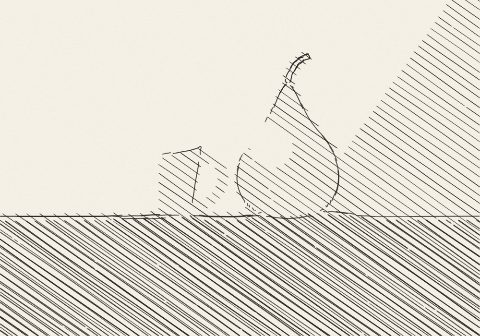
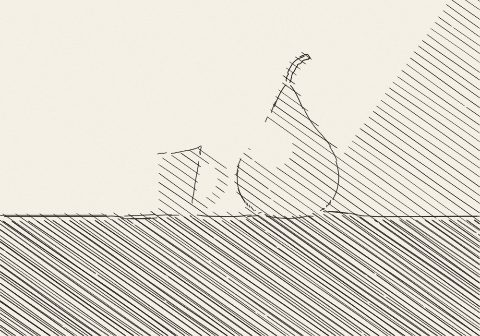
펜화 선 간격·원근 굵기, 방향 지시선 구역별 직선, 팔레트 실효, 7층 원본 겹치기
펜화(명암 단계 해칭):
- 어두운 단계일수록 간격을 더 좁게 (S0·(1−0.4t) → S0·(1−0.66t), 가장 어두운 단계가 첫 단계의 1/3)
- 방향 지시선이 이제 먹는다. 선을 휘게 하니 한쪽으로 몰려 구멍이 생겨서, 지시선이 센 자리를 각도 12칸으로
  나눠 칸마다 그 각도의 곧은 평행선을 따로 긋는 방식으로 (drawSet 하나로 기준 각도·지시 구역을 모두 처리)
- 선 방향·형태 따라가기 슬라이더를 패널 기본 화면으로 (펜 계열). 리천 붓은 형태 따라가기가 높아 각도가
  안 먹는 것처럼 보였으므로 안내 문구를 붙였다

원근 선 굵기 (depth, 펜 붓): 가까우면 슬라이더 굵기(≈0.4~0.6mm), 멀면 최대 0.22배(≈0.05~0.2mm).
nearMap 이 화면 아래(0.4)와 지역 대비(0.6, 공기 원근)로 추정한다. 모든 자국에 자리마다 적용.
선 굵기 슬라이더에 mm 표시 추가 (긴 변 1000px = A4 가로 297mm 기준)

팔레트가 거의 안 보이던 것 수정: 채도 문턱 chroma·3.2 → ·6, 사실성 감쇠 0.65 → 0.35.
이제 12색·혼합·선명·단색이 눈에 띄게 다르다

7층 원본 겹치기 (그림붓): 사실 쪽일수록 원본 사진이 진하게 비친다 (사실 50 부터, 100 에서 절반).
살짝 뭉갠 사진을 알파 합성하므로 붓 자국은 남는다

Claude-Session: https://claude.ai/code/session_01Hvnc9GgokccTnGmXxLxTkb

diff --git a/src/render.ts b/src/render.ts
@@ -270,6 +270,35 @@ function smoothNoise1D(n: number, rng: () => number): Float32Array {
   return a;
 }
 
+/**
+ * 원근(가까움) 0..1 — 1 = 가깝다. 사진에는 깊이 정보가 없으므로 두 가지 단서를 섞는다:
+ * (1) 화면 아래일수록 가깝다 (풍경·거리 사진의 기본 구도), (2) 지역 대비가 클수록 가깝다 —
+ * 먼 곳은 대기 때문에 흐려진다(공기 원근). 이걸로 선 굵기를 바꾼다: 가까우면 굵고 멀면 가늘게.
+ */
+function nearMap(lum: Float32Array, w: number, h: number, minSide: number): Float32Array {
+  const N = w * h;
+  const R = Math.max(3, Math.round(minSide / 45));
+  const soft = boxBlur(lum, w, h, R);
+  const dev = new Float32Array(N);
+  for (let i = 0; i < N; i++) dev[i] = Math.abs(lum[i] - soft[i]);
+  const con = boxBlur(dev, w, h, R * 2);
+  // 90퍼센타일로 정규화 (한 곳만 아주 또렷해도 전체가 눌리지 않게)
+  const step = Math.max(1, Math.floor(N / 20000));
+  const sample: number[] = [];
+  for (let i = 0; i < N; i += step) sample.push(con[i]);
+  sample.sort((a, b) => a - b);
+  const hi = Math.max(1e-4, sample[Math.floor(sample.length * 0.9)]);
+  const out = new Float32Array(N);
+  for (let y = 0; y < h; y++) {
+    const yt = h > 1 ? y / (h - 1) : 1; // 아래 = 1
+    for (let x = 0; x < w; x++) {
+      const i = y * w + x;
+      out[i] = clamp(0.4 * yt + 0.6 * clamp(con[i] / hi, 0, 1), 0, 1);
+    }
+  }
+  return boxBlur(out, w, h, R);
+}
+
 /* ---------- 색 팔레트 ---------- */
 
 const PALETTE_RGB: RGB[] = PALETTE_12.map((h) => hexToRgb(h));
@@ -293,7 +322,7 @@ function applyPalette(r: number, g: number, b: number, pal: PaletteId, ink: RGB)
   }
   // match / match2: 색도(밝기를 뺀 색)가 가장 가까운 물감색
   const chroma = Math.max(Math.abs(r - mean), Math.abs(g - mean), Math.abs(b - mean));
-  const strength = clamp(chroma * 3.2, 0, 1) * (pal === 'match' ? 1 : 0.55);
+  const strength = clamp(chroma * 6, 0, 1) * (pal === 'match' ? 1 : 0.6);
   if (strength < 0.02) return [r, g, b];
   const sum = r + g + b + 0.03;
   const cr = r / sum, cg = g / sum;
@@ -532,6 +561,8 @@ interface Ctx {
   bg: Float32Array | null;
   /** 마른 붓 0 ↔ 젖은 붓 1 */
   wet: number;
+  /** 자리 i 의 선 굵기 배수 (원근): 가까우면 1, 멀면 0.22 까지 */
+  wMul: (i: number) => number;
 }
 
 /**
@@ -585,7 +616,7 @@ function penStroke(c: Ctx, ref: Float32Array, x0: number, y0: number, L: number,
       if (cv.dark[i] > ref[i] + 0.08) { if (++over > 4) break; } else over = 0;
       const taper = Math.min(1, (s + step) / 4, (half - s) / 4 + 0.35);
       const wob = Math.sin(s * wobF + wobP) * wobA;
-      cv.dot(x - dy * wob, y + dx * wob, r * (0.65 + 0.35 * taper) * pressure, 0.75 + 0.25 * taper);
+      cv.dot(x - dy * wob, y + dx * wob, r * (0.65 + 0.35 * taper) * pressure * c.wMul(i), 0.75 + 0.25 * taper);
       // 방향장을 조금씩 따라감 (부호는 이전 방향과 맞춤)
       const wf = Math.max(c.ff * c.field.coh[i], c.field.man[i]);
       if (wf > 0.12 && c.texture[i] < 0.5) {
@@ -620,7 +651,7 @@ function loopStroke(c: Ctx, ref: Float32Array, x0: number, y0: number, R: number
     if (x < 0 || y < 0 || x >= w || y >= h) continue;
     const i = y * w + x;
     if (ref[i] < 0.02) continue;
-    cv.dot(px, py, lw * 0.45, 0.9);
+    cv.dot(px, py, lw * 0.45 * c.wMul(i), 0.9);
   }
   cv.end(alphaFor(c, D0) * 0.6, c.colorAt(i0));
 }
@@ -678,7 +709,7 @@ function edgePass(c: Ctx, mag: Float32Array, mass: { mag: Float32Array; gx: Floa
         if (done[i] && done[i] !== sid) { if (++dup > 4) break; }
         mark(xi, yi);
         const k = clamp(m / th, 0.5, 1.6);
-        cv.dot(x, y, r * (0.6 + 0.4 * Math.min(1, k)), 0.6 + 0.4 * Math.min(1, k));
+        cv.dot(x, y, r * (0.6 + 0.4 * Math.min(1, k)) * c.wMul(i), 0.6 + 0.4 * Math.min(1, k));
         drawn++;
         // 경계 접선을 따라감 (부호 유지)
         let [fx, fy] = tangent(i);
@@ -747,7 +778,7 @@ function sweep(c: Ctx, ref: Float32Array, R: number, sw: Sweep, T: number, L: nu
         const px = xs + rng() * (x1 - xs), py = ys + rng() * (y1 - ys);
         const i = (py | 0) * w + (px | 0);
         if (ref[i] < 0.02 || cv.dark[i] > ref[i]) continue;
-        cv.dot(px, py, (lw / 2) * (0.7 + rng() * 0.6), 0.95);
+        cv.dot(px, py, (lw / 2) * (0.7 + rng() * 0.6) * c.wMul(i), 0.95);
         cv.end(clamp(alphaFor(c, ref[i]) * 1.1, 0, 0.97), c.colorAt(i));
       }
       continue;
@@ -786,7 +817,22 @@ function toneHatch(c: Ctx, lum: Float32Array, white: number, bg: Float32Array | 
     tone[i] = clamp(Math.round(((white - L) / white) * (levels - 1) + 0.35), 1, levels - 1);
   }
 
-  // 2) 층마다 선 간격·굵기·각도. 어두운 층일수록 촘촘하고 굵으며, 셋째 층부터 각도를 튼다
+  // 2) 방향 지시선: 선을 휘게 하면 한쪽으로 몰려 구멍이 생긴다. 대신 지시선이 센 구역을 각도별로 나눠
+  //    **구역마다 곧은 평행선**을 따로 긋는다 (사람이 벽은 세로, 바닥은 원근 방향으로 나눠 긋는 것과 같다).
+  const BINS = 12; // 15도 간격
+  const bin = new Int8Array(N).fill(-1);
+  const bins = new Set<number>();
+  if (c.field.man) {
+    for (let i = 0; i < N; i++) {
+      if (c.field.man[i] < 0.3 || !tone[i]) continue;
+      let a = Math.atan2(c.field.ty[i], c.field.tx[i]);
+      a = ((a % Math.PI) + Math.PI) % Math.PI;
+      const bi = Math.min(BINS - 1, Math.floor((a / Math.PI) * BINS));
+      bin[i] = bi; bins.add(bi);
+    }
+  }
+
+  // 3) 층마다 선 간격·굵기·각도. 어두운 층일수록 촘촘하고 굵으며, 셋째 층부터 각도를 튼다
   const sets = levels - 1;
   const spread = Math.max(1, sets - 1);
   const S0 = Math.max(lw * 2.2, minSide * (0.032 - 0.021 * clamp(p.detail, 0, 100) / 100));
@@ -794,26 +840,21 @@ function toneHatch(c: Ctx, lum: Float32Array, white: number, bg: Float32Array | 
   const alphaBase = 0.42 + 0.5 * clamp(p.ink, 0, 100) / 100;
   const j = c.rnd;
 
-  for (let k = 1; k <= sets; k++) {
-    const t = (k - 1) / spread;
-    const spacing = S0 * (1 - 0.4 * t);
-    const width = lw * (0.75 + 0.85 * t);
-    const angle = c.p.baseAngle + (ANGLE_OFF[Math.min(k - 1, ANGLE_OFF.length - 1)] ?? 0);
-    const th = (angle * Math.PI) / 180;
+  /** 곧은 평행선 한 벌. keep(i) 가 참인 자리에만 자국을 남긴다 */
+  const drawSet = (angleDeg: number, spacing: number, width: number, phase: number, keep: (i: number) => boolean,
+    onFrac?: (f: number) => void) => {
+    const th = (angleDeg * Math.PI) / 180;
     const dx = Math.cos(th), dy = Math.sin(th);
     const nx = -dy, ny = dx;
     const cx = w / 2, cy = h / 2;
     const diag = Math.hypot(w, h);
     const r = width / 2;
-    const phase = k === 2 ? 0.5 : rng(); // 2층은 1층 사이에 끼워 넣어 선 갯수를 두 배로
     let done = 0;
     const total = Math.max(1, Math.ceil(diag / spacing));
-
     for (let o = -diag / 2 + phase * spacing; o <= diag / 2; o += spacing) {
-      if (onLevel && (done & 15) === 0) onLevel(k - 1, done / total);
+      if (onFrac && (done & 15) === 0) onFrac(done / total);
       done++;
       const bx = cx + nx * o, by = cy + ny * o;
-      // 손으로 그은 선: 완만한 흔들림과 필압 변화
       const wobA = (0.3 + 1.5 * j) * Math.max(1, lw * 0.7);
       const wobF = 0.006 + rng() * 0.012, wobP = rng() * 6.28;
       const pressure = 0.85 + rng() * 0.3;
@@ -823,7 +864,8 @@ function toneHatch(c: Ctx, lum: Float32Array, white: number, bg: Float32Array | 
           const n = seg.length / 2;
           for (let q = 0; q < n; q++) {
             const taper = Math.min(1, (q + 1) / 4, (n - q) / 4);
-            cv.dot(seg[q * 2], seg[q * 2 + 1], r * (0.55 + 0.45 * taper) * pressure, 0.8 + 0.2 * taper);
+            const di = (seg[q * 2 + 1] | 0) * w + (seg[q * 2] | 0);
+            cv.dot(seg[q * 2], seg[q * 2 + 1], r * (0.55 + 0.45 * taper) * pressure * c.wMul(di), 0.8 + 0.2 * taper);
           }
           cv.end(clamp(alphaBase * (0.85 + rng() * 0.3), 0, 0.97), c.colorAt((seg[1] | 0) * w + (seg[0] | 0)));
         } else cv.end(0, [0, 0, 0]); // 너무 짧으면 버린다 (모아 둔 자국도 지운다)
@@ -834,8 +876,7 @@ function toneHatch(c: Ctx, lum: Float32Array, white: number, bg: Float32Array | 
         const wob = Math.sin(u * wobF + wobP) * wobA;
         const px = bx + dx * u + nx * wob, py = by + dy * u + ny * wob;
         const xi = px | 0, yi = py | 0;
-        const inside = xi >= 0 && yi >= 0 && xi < w && yi < h && tone[yi * w + xi] >= k;
-        if (!inside) { if (seg.length) flush(); continue; }
+        if (xi < 0 || yi < 0 || xi >= w || yi >= h || !keep(yi * w + xi)) { if (seg.length) flush(); continue; }
         // 가끔 펜을 떼었다 놓는다 (손그림 느낌). 무작위성이 클수록 자주
         if (skip > 0) { skip -= 0.8; if (seg.length) flush(); continue; }
         if (j > 0.05 && rng() < 0.0015 * j) { skip = 2 + rng() * 6 * j; continue; }
@@ -843,7 +884,23 @@ function toneHatch(c: Ctx, lum: Float32Array, white: number, bg: Float32Array | 
       }
       if (seg.length) flush();
     }
-    if (onLevel) onLevel(k - 1, 1);
+  };
+
+  for (let k = 1; k <= sets; k++) {
+    const t = (k - 1) / spread;
+    // 어두운 단계일수록 간격을 좁게 (가장 어두운 단계는 첫 단계의 1/3). 선이 붙어 먹이 되지 않게 굵기의 1.5배는 띄운다
+    const spacing = Math.max(lw * 1.5, S0 * (1 - 0.66 * t));
+    const width = lw * (0.75 + 0.85 * t);
+    const off = ANGLE_OFF[Math.min(k - 1, ANGLE_OFF.length - 1)] ?? 0;
+    const phase = k === 2 ? 0.5 : rng();
+    // 지시선이 없는 곳: 기준 각도로
+    drawSet(p.baseAngle + off, spacing, width, phase, (i) => tone[i] >= k && bin[i] < 0, (f) => onLevel?.(k - 1, f));
+    // 지시선 구역: 그 구역의 방향으로 (구역마다 곧은 평행선)
+    for (const bi of bins) {
+      const ang = ((bi + 0.5) / BINS) * 180 + off;
+      drawSet(ang, spacing, width, phase, (i) => tone[i] >= k && bin[i] === bi);
+    }
+    onLevel?.(k - 1, 1);
   }
 }
 
@@ -963,7 +1020,7 @@ function washTarget(img: RawImage, lum: Float32Array, white: number, w: number, 
       // 팔레트: 사진 색을 고른 물감색 쪽으로 옮긴다
       // 사실 쪽에서는 팔레트 이동을 줄인다 (원본 색 그대로에 가깝게)
       const pr = applyPalette(tr, tg, tb, pal, ink);
-      const pk = 1 - 0.65 * real;
+      const pk = 1 - 0.35 * real;
       tr += (pr[0] - tr) * pk; tg += (pr[1] - tg) * pk; tb += (pr[2] - tb) * pk;
     } else {
       const g = L * 0.8 + 0.2;
@@ -1129,6 +1186,9 @@ export function renderDrawing(img: RawImage, opts: RenderOpts): RawImage {
       return [inkC[0] * ki + r * 255 * kc, inkC[1] * ki + g * 255 * kc, inkC[2] * ki + b * 255 * kc];
     };
   }
+  // 원근 선 굵기 (펜 붓만): 가까우면 슬라이더 굵기 그대로, 멀면 최대 0.22배까지 가늘게
+  const dk = 0.78 * clamp(p.depth ?? 0, 0, 100) / 100;
+  const nearField = !painty && dk > 0.02 ? nearMap(lum, w, h, minSide) : null;
   const acc = clamp(p.accuracy, 0, 100) / 100;
   const c: Ctx = {
     w, h, N, cv, field, texture, rng, p,
@@ -1141,6 +1201,7 @@ export function renderDrawing(img: RawImage, opts: RenderOpts): RawImage {
     painty: p.brush === 'wash' || p.brush === 'oil' || p.brush === 'impasto',
     bg: bgMask,
     wet: clamp(p.wet ?? 40, 0, 100) / 100,
+    wMul: nearField ? (i: number) => 1 - dk * (1 - nearField[i]) : () => 1,
   };
   const T = 0.03 + 0.28 * (1 - acc);
   const sizes = passSizes(p, minSide);
@@ -1204,7 +1265,7 @@ export function renderDrawing(img: RawImage, opts: RenderOpts): RawImage {
     const fineSteps = p.brush === 'impasto' ? (realD >= 70 ? 1 : 0) : realD >= 75 ? 2 : realD >= 45 ? 1 : 0;
     for (let f = 0; f < fineSteps; f++) {
       const dt = clamp(realD, 0, 100) / 100;
-      const Rf = Math.max(2.5, minSide * (0.015 - 0.010 * dt) * (fineSteps === 2 && f === 0 ? 1.7 : 1) * (p.brush === 'impasto' ? 1.6 : 1));
+      const Rf = Math.max(3.2, minSide * (0.015 - 0.010 * dt) * (fineSteps === 2 && f === 0 ? 1.7 : 1) * (p.brush === 'impasto' ? 1.6 : 1));
       stageLabel = fineSteps === 2 && f === 0 ? '세부 (작은 붓)' : '마무리 (가장 작은 붓)';
       washSweep(c, blurRGB(want0, w, h, f === 0 && fineSteps === 2 ? 1 : 0), Rf, Math.max(3, 8 * (1 - acc)),
         (fr: number) => report(passes - 1, (f + fr) / fineSteps), { alpha: 1, len: 0.45, tip: tipForStage(p, 2) });
@@ -1212,6 +1273,23 @@ export function renderDrawing(img: RawImage, opts: RenderOpts): RawImage {
     }
     // 물감이 마르며 가장자리에 고이는 안료: 캔버스 밝기의 경계를 조금 어둡게
     if (!oil) pigmentEdges(cv, 0.12 + 0.34 * c.wet, mulberry32(77));
+    // 7층: 원본 사진 겹치기. 표현↔사실 슬라이더가 사실 쪽일수록 원본이 진하게 비친다 (DAP 의 마지막 레이어)
+    const photoMix = clamp((acc - 0.5) / 0.5, 0, 1) * 0.5;
+    if (photoMix > 0.01) {
+      stageLabel = '7층 · 원본 겹치기';
+      const soft = [0, 1, 2].map((ch) => {
+        const a2 = new Float32Array(N);
+        for (let i = 0, q = 0; i < img.data.length; i += 4, q++) a2[q] = img.data[i + ch];
+        return boxBlur(a2, w, h, 1);
+      });
+      for (let i = 0; i < N; i++) {
+        const o = i * 3;
+        cv.rgb[o] += (soft[0][i] - cv.rgb[o]) * photoMix;
+        cv.rgb[o + 1] += (soft[1][i] - cv.rgb[o + 1]) * photoMix;
+        cv.rgb[o + 2] += (soft[2][i] - cv.rgb[o + 2]) * photoMix;
+      }
+      report(passes - 1, 1, true);
+    }
     // 펜: 잉크 농도가 있을 때만 가장 어두운 곳에 성긴 획 (순수 수채는 ink 0)
     if (p.ink >= 30) {
       const ref = boxBlur(target, w, h, 1);

diff --git a/src/components/PaintPanel.tsx b/src/components/PaintPanel.tsx
@@ -57,7 +57,8 @@ function Range({ label, value, min, max, step = 1, unit = '', hint, note, onChan
 const detailNote = (v: number) => (v < 35 ? '큰 형태만' : v < 70 ? '보통' : '아주 세밀하게');
 const keepNote = (v: number) => (v < 35 ? '거의 다 채움' : v < 65 ? '보통' : '흰 종이를 넓게');
 const inkNote = (v: number) => (v < 35 ? '연하게' : v < 70 ? '보통' : '진하게');
-const widthNote = (v: number) => (v <= 1.2 ? `가는 펜 ${v}px` : v <= 2.2 ? `보통 펜 ${v}px` : `굵은 펜 ${v}px`);
+const mm = (px: number) => (px * 0.3).toFixed(2).replace(/0$/, '');
+const widthNote = (v: number) => `${v <= 1.2 ? '가는' : v <= 2.2 ? '보통' : '굵은'} 펜 · 약 ${mm(v)}mm`;
 const realNote = (v: number) => (v < 30 ? '표현적으로' : v < 55 ? '조금 표현적' : v < 80 ? '조금 사실적' : '원본과 같게');
 const wetNote = (v: number) => (v < 25 ? '마른 붓' : v < 50 ? '조금 마르게' : v < 75 ? '조금 젖게' : '젖은 붓');
 
@@ -118,7 +119,9 @@ export function PaintPanel({ paint: s, onChange, fromSample, onReset, presets, o
       )}
 
       <Range label="표현 ↔ 사실" value={s.accuracy} min={0} max={100} note={realNote(s.accuracy)}
-        hint="사실 쪽으로 갈수록 원본 사진과 같아집니다 — 색을 덜 바꾸고 세부를 더 그립니다"
+        hint={isPaint
+          ? '사실 쪽으로 갈수록 원본 사진과 같아집니다 — 색을 덜 바꾸고 세부를 더 그리며, 마지막에 원본 사진을 겹쳐 비칩니다 (50 이상부터, 100 에서 절반)'
+          : '사실 쪽으로 갈수록 원본 사진과 같아집니다 — 명암 차이가 작은 곳까지 선을 놓습니다'}
         onChange={(accuracy) => onChange({ accuracy })} />
       {isPaint && (
         <Range label="마른 붓 ↔ 젖은 붓" value={s.wet} min={0} max={100} note={wetNote(s.wet)}
@@ -153,9 +156,21 @@ export function PaintPanel({ paint: s, onChange, fromSample, onReset, presets, o
         hint="획 하나의 진하기. 아주 진하면 깊은 그림자를 먹으로 채웁니다" onChange={(ink) => onChange({ ink })} />
       <Range label={isPaint ? '붓 굵기' : '선 굵기'} value={s.lineWidth} min={1} max={6} step={0.5} note={widthNote(s.lineWidth)}
         onChange={(lineWidth) => onChange({ lineWidth })} />
-      {s.brush === 'tone' && (
-        <Range label="선 방향" value={s.baseAngle} min={0} max={179} unit="°" note={`${s.baseAngle}° ${s.baseAngle < 20 || s.baseAngle > 160 ? '(가로)' : s.baseAngle > 70 && s.baseAngle < 110 ? '(세로)' : '(사선)'}`}
-          hint="모든 단계가 이 방향으로 그어집니다. 셋째 단계부터는 여기서 각도를 틀어 교차선이 됩니다" onChange={(baseAngle) => onChange({ baseAngle })} />
+      {!isPaint && !isStipple && (
+        <>
+          <Range label="선 방향" value={s.baseAngle} min={0} max={179} unit="°"
+            note={`${s.baseAngle}° ${s.baseAngle < 20 || s.baseAngle > 160 ? '(가로)' : s.baseAngle > 70 && s.baseAngle < 110 ? '(세로)' : '(사선)'}`}
+            hint={s.brush === 'tone'
+              ? '모든 단계가 이 방향으로 그어집니다. 셋째 단계부터는 여기서 각도를 틀어 교차선이 됩니다'
+              : '방향이 없는 곳(하늘·벽)의 선 방향입니다. 이 붓은 면의 방향을 먼저 따르므로, 각도를 확실히 바꾸려면 아래 "형태 따라가기"를 낮추세요'}
+            onChange={(baseAngle) => onChange({ baseAngle })} />
+          {s.brush !== 'tone' && (
+            <Range label="형태 따라가기" value={s.featureFollow} min={0} max={100}
+              note={s.featureFollow < 25 ? '선 방향대로만' : s.featureFollow < 70 ? '반반' : '면의 방향을 따라'}
+              hint="0 이면 위 선 방향으로만 긋고, 100 이면 면·경계의 방향을 그대로 따릅니다"
+              onChange={(featureFollow) => onChange({ featureFollow })} />
+          )}
+        </>
       )}
 
       <div className="field">
@@ -202,9 +217,13 @@ export function PaintPanel({ paint: s, onChange, fromSample, onReset, presets, o
         <Range label="층 수" value={s.passes} min={1} max={6} unit="층" hint="획 크기를 줄여 가며 몇 번 겹쳐 그릴지" onChange={(passes) => onChange({ passes })} />
         <Range label="획 크기" value={s.brushSize} min={0} max={100} hint="첫 층의 획 길이·간격. 큰 형태를 잡는 획" onChange={(brushSize) => onChange({ brushSize })} />
         {!isStipple && <Range label="획 길이" value={s.strokeLength} min={0} max={100} hint="획 하나의 길이 (획 크기 배수)" onChange={(strokeLength) => onChange({ strokeLength })} />}
-        {!isStipple && <Range label="형태 따라가기" value={s.featureFollow} min={0} max={100} hint="0 = 기준 각도로만, 100 = 면·경계의 방향을 그대로 따름" onChange={(featureFollow) => onChange({ featureFollow })} />}
-        {!isStipple && <Range label="기준 각도" value={s.baseAngle} min={0} max={179} unit="°" hint="방향이 없는 곳(하늘·평면)의 해칭 방향" onChange={(baseAngle) => onChange({ baseAngle })} />}
         <Range label="무작위성" value={s.randomness} min={0} max={100} hint="시작점·각도·길이·필압의 흔들림" onChange={(randomness) => onChange({ randomness })} />
+        {!isPaint && (
+          <Range label="원근 선 굵기" value={s.depth} min={0} max={100}
+            note={s.depth < 10 ? '어디나 같게' : `먼 곳 약 ${mm(s.lineWidth * (1 - 0.78 * s.depth / 100))}mm`}
+            hint="가까운 곳은 선 굵기 그대로, 먼 곳은 가늘게 긋습니다. 사진의 아래쪽·또렷한 곳을 가깝다고 봅니다"
+            onChange={(depth) => onChange({ depth })} />
+        )}
         <Range label="윤곽선" value={s.edges} min={0} max={100} hint="색 경계를 따라가는 선의 양" onChange={(edges) => onChange({ edges })} />
         <Range label="가장자리 여백" value={s.vignette} min={0} max={100} hint="가장자리를 미완성처럼 흐림 (어반 스케치)" onChange={(vignette) => onChange({ vignette })} />
 

diff --git a/src/types.ts b/src/types.ts
@@ -78,6 +78,11 @@ export interface PaintProfile {
   tip: TipKind;
   /** 색 팔레트 (컬러로 그릴 때만) */
   palette: PaletteId;
+  /**
+   * 원근 선 굵기 0~100 (펜 붓만). 가까운 곳은 굵고(선 굵기 그대로 ≈ 0.4~0.6mm) 먼 곳은 가늘게(≈ 0.05~0.2mm) 긋는다.
+   * 0 이면 어디나 같은 굵기. 원근은 사진에서 추정한다 (아래쪽·또렷한 곳이 가깝고, 위쪽·흐린 곳이 멀다).
+   */
+  depth: number;
   /** 마른 붓 0 ↔ 젖은 붓 100 (DAP 의 Dry–Wet). 붓 종류·번짐·안료 고임·불투명도를 함께 움직인다 */
   wet: number;
   /** 층 수 1~6. 큰 획 층에서 작은 획 층으로 */
@@ -117,17 +122,17 @@ export interface PaintProfile {
  * 가는 검정 펜, 면의 방향을 따르는 획, 나뭇잎은 고리 선 뭉치, 하늘·하이라이트는 흰 종이, 가장자리는 미완성.
  */
 export const RICHEON_PAINT: PaintProfile = {
-  brush: 'pen', tip: 'round', palette: 'photo', wet: 30, passes: 4, brushSize: 45, detail: 75, accuracy: 60, strokeLength: 60, featureFollow: 85, baseAngle: 55, randomness: 30,
+  brush: 'pen', tip: 'round', palette: 'photo', wet: 30, depth: 70, passes: 4, brushSize: 45, detail: 75, accuracy: 60, strokeLength: 60, featureFollow: 85, baseAngle: 55, randomness: 30,
   lineWidth: 1.4, ink: 88, paperKeep: 66, edges: 80, vignette: 40, paperColor: '#f6f3ec', inkColor: '#17171a',
 };
 /** 세밀 펜화: 아주 가늘고 고른 선으로 끝까지 완성, 수평 하늘 해칭, 먹 그림자 */
 export const FINE_PAINT: PaintProfile = {
-  brush: 'pen', tip: 'round', palette: 'photo', wet: 30, passes: 6, brushSize: 40, detail: 100, accuracy: 85, strokeLength: 80, featureFollow: 90, baseAngle: 0, randomness: 8,
+  brush: 'pen', tip: 'round', palette: 'photo', wet: 30, depth: 60, passes: 6, brushSize: 40, detail: 100, accuracy: 85, strokeLength: 80, featureFollow: 90, baseAngle: 0, randomness: 8,
   lineWidth: 1, ink: 92, paperKeep: 52, edges: 90, vignette: 0, paperColor: '#f7f5f0', inkColor: '#111114',
 };
 /** 클래식: 굵은 펜의 한 방향 해칭 */
 export const CLASSIC_PAINT: PaintProfile = {
-  brush: 'tone', tip: 'round', palette: 'photo', wet: 30, passes: 5, brushSize: 50, detail: 62, accuracy: 65, strokeLength: 70, featureFollow: 40, baseAngle: 35, randomness: 30,
+  brush: 'tone', tip: 'round', palette: 'photo', wet: 30, depth: 70, passes: 5, brushSize: 50, detail: 62, accuracy: 65, strokeLength: 70, featureFollow: 40, baseAngle: 35, randomness: 30,
   lineWidth: 1.8, ink: 80, paperKeep: 55, edges: 50, vignette: 0, paperColor: '#f5f0e6', inkColor: '#221e1b',
 };
 export const DEFAULT_PAINT: PaintProfile = RICHEON_PAINT;
@@ -174,6 +179,7 @@ export function blendPaint(base: PaintProfile, m: PaintProfile, weight: number):
     tip: t >= 0.5 ? m.tip : base.tip,
     palette: base.palette,
     wet: mix(base.wet, m.wet),
+    depth: base.depth,
     passes: mix(base.passes, m.passes),
     brushSize: mix(base.brushSize, m.brushSize),
     detail: mix(base.detail, m.detail),
